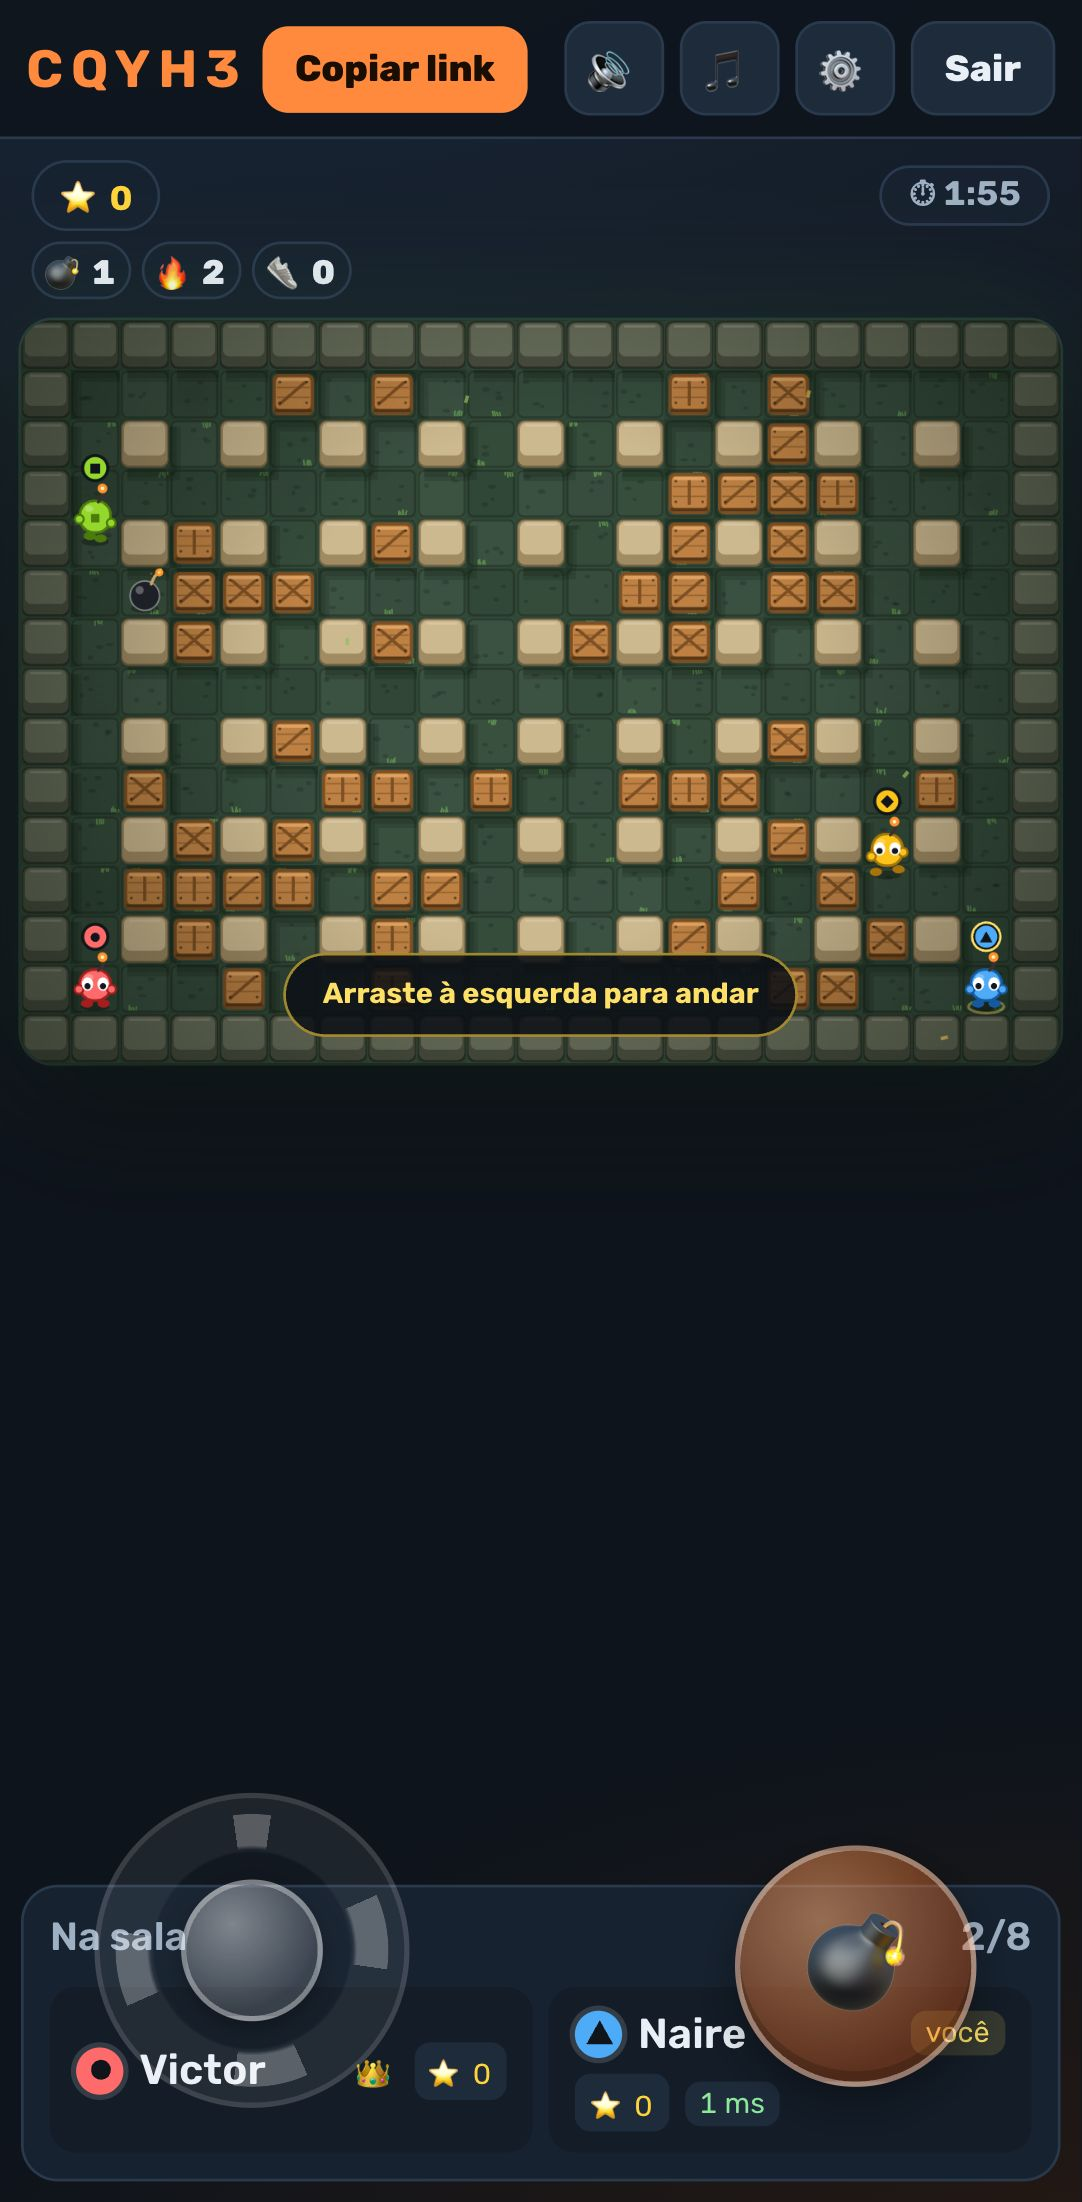
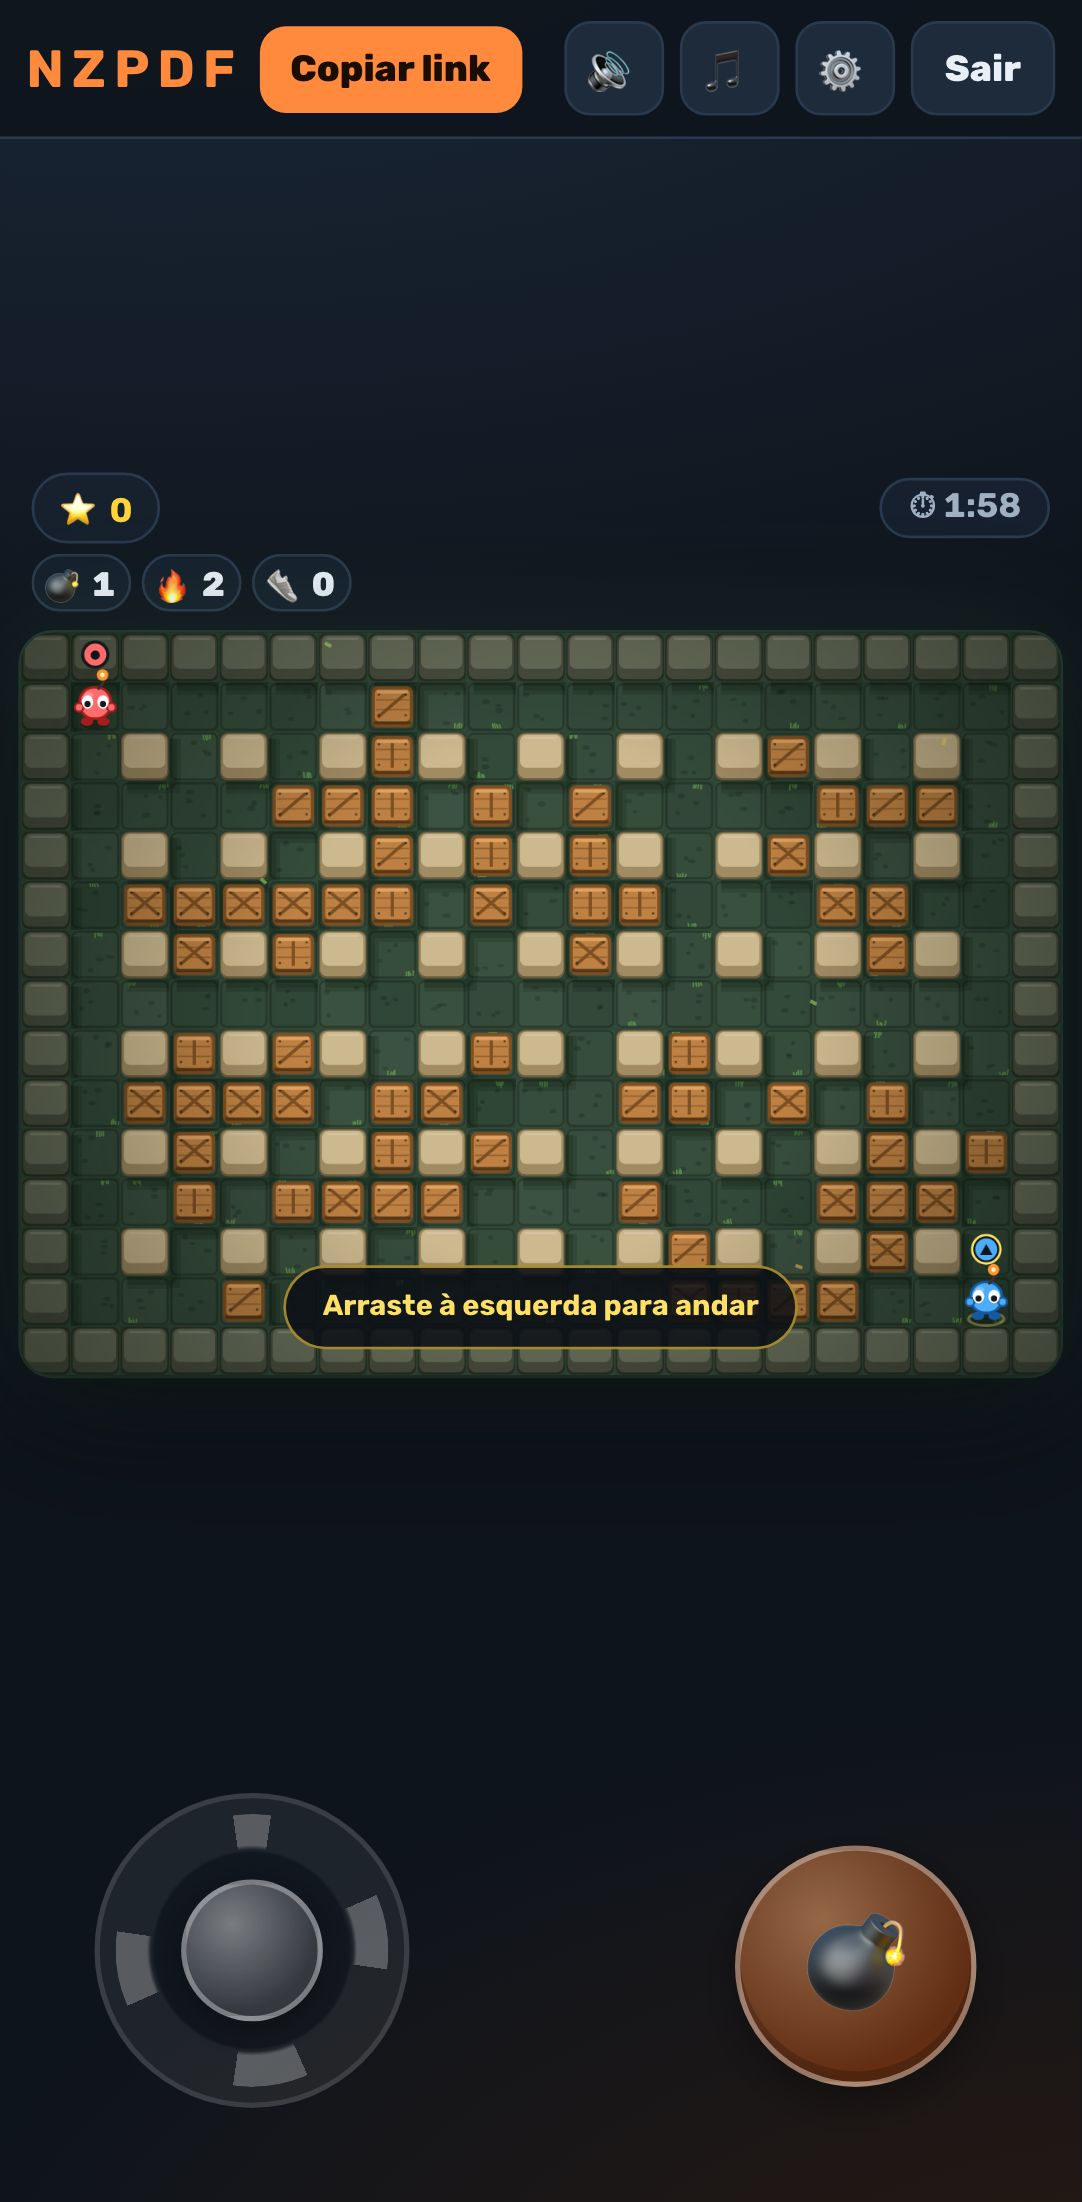
docs: phone portrait layout fixed by front 1, new capture

diff --git a/docs/relatorio-noite-2026-10-28.md b/docs/relatorio-noite-2026-10-28.md
@@ -46,6 +46,7 @@ Rascunho de 03:20, revisado no fim da noite.
 | 03:05 | 1 (jornada) | `37d903c` | Teclado e leitor de tela (cores como grupo de opções, foco preso nos diálogos, região viva anunciando contagem, "Valendo!", eliminação e resultados), transição entre a página inicial e a sala, vibração curta no começo da partida e ao ser eliminado, selo da forma no boneco do perfil. | Frente 5, depois: `npm test` 121, `npm run e2e` 28 + 2, visual 3 de 3 com imagens novas. |
 | 03:11 | 1 (jornada) | `b29f064` | Últimas partidas e ranking das partidas com amigos na página inicial. | Frente 5, depois: `npm run e2e` 28 + 2, fumaça 4 de 4; imagens da página inicial atualizadas. |
 | 03:22 | 1 (jornada) | `b7b7104` | Polimento no celular a partir de um passeio em produção; cor escolhida cedo fica guardada. | Frente 5, depois: `npm test` 121, `npm run e2e` 28 + 2, fumaça 4 de 4; imagem do lobby no celular atualizada. |
+| 04:24 | 1 (jornada) | `c367daf` | Celular em pé durante a partida: a lista da sala sai do caminho e os controles de toque ficam no espaço livre (achado das capturas da frente 5). | Frente 5, depois: `npm test` 121, `npm run e2e` 29 + 2, visual 3 de 3, fumaça 4 de 4, captura conferida. |
 
 ## Capturas da noite
 
@@ -92,7 +93,7 @@ A sessão principal revisou o commit `13747d9` (robôs com a `main` dentro) com 
 
 ## Problemas conhecidos
 
-- 04:15, aberto (avisado à frente 1): no celular em pé, durante a partida, a arena ocupa só o alto da tela, sobra um vão grande no meio e o joystick e o botão de bomba ficam por cima do painel "Na sala" no rodapé. No iPad e no celular deitado está certo. Captura: [07-partida-celular.jpg](capturas-2026-10-28/07-partida-celular.jpg).
+- 04:15, corrigido às 04:24: no celular em pé, durante a partida, o joystick e o botão de bomba ficavam por cima do painel "Na sala" no rodapé, com um vão vazio no meio (achado pelas capturas da frente 5). A frente 1 tirou a lista do caminho durante a partida com toque em pé (`ef49e1a`, publicado em `c367daf`); a captura [07-partida-celular.jpg](capturas-2026-10-28/07-partida-celular.jpg) já mostra a tela corrigida.
 - Instabilidade de rede nos testes: com a suíte inteira em 2 processos, dois cenários falharam uma vez e passaram na nova tentativa às 02:30 (acessibilidade do lobby e página desatualizada da frente 1, que depende do servidor de sinalização responder "sala inexistente" a tempo). Isolados, passaram 24 de 24. O de acessibilidade ganhou uma espera pelas animações de entrada (o axe pegava um cartão ainda transparente).
 - 01:30, corrigido às 01:38: `/api/ranking`, `/api/perfil` e a criação de perfil davam 500 de vez em quando em produção. O log da função mostrou `BlobsInternalError: Failed to decode token: Token expired`: a loja do Netlify Blobs era criada uma vez por módulo e guardava o token da primeira invocação nas instâncias quentes. A frente 5 corrigiu (`perfil.mjs` abre a loja a cada requisição) porque as mensagens para a frente 4 estavam bloqueadas naquele momento.
 
